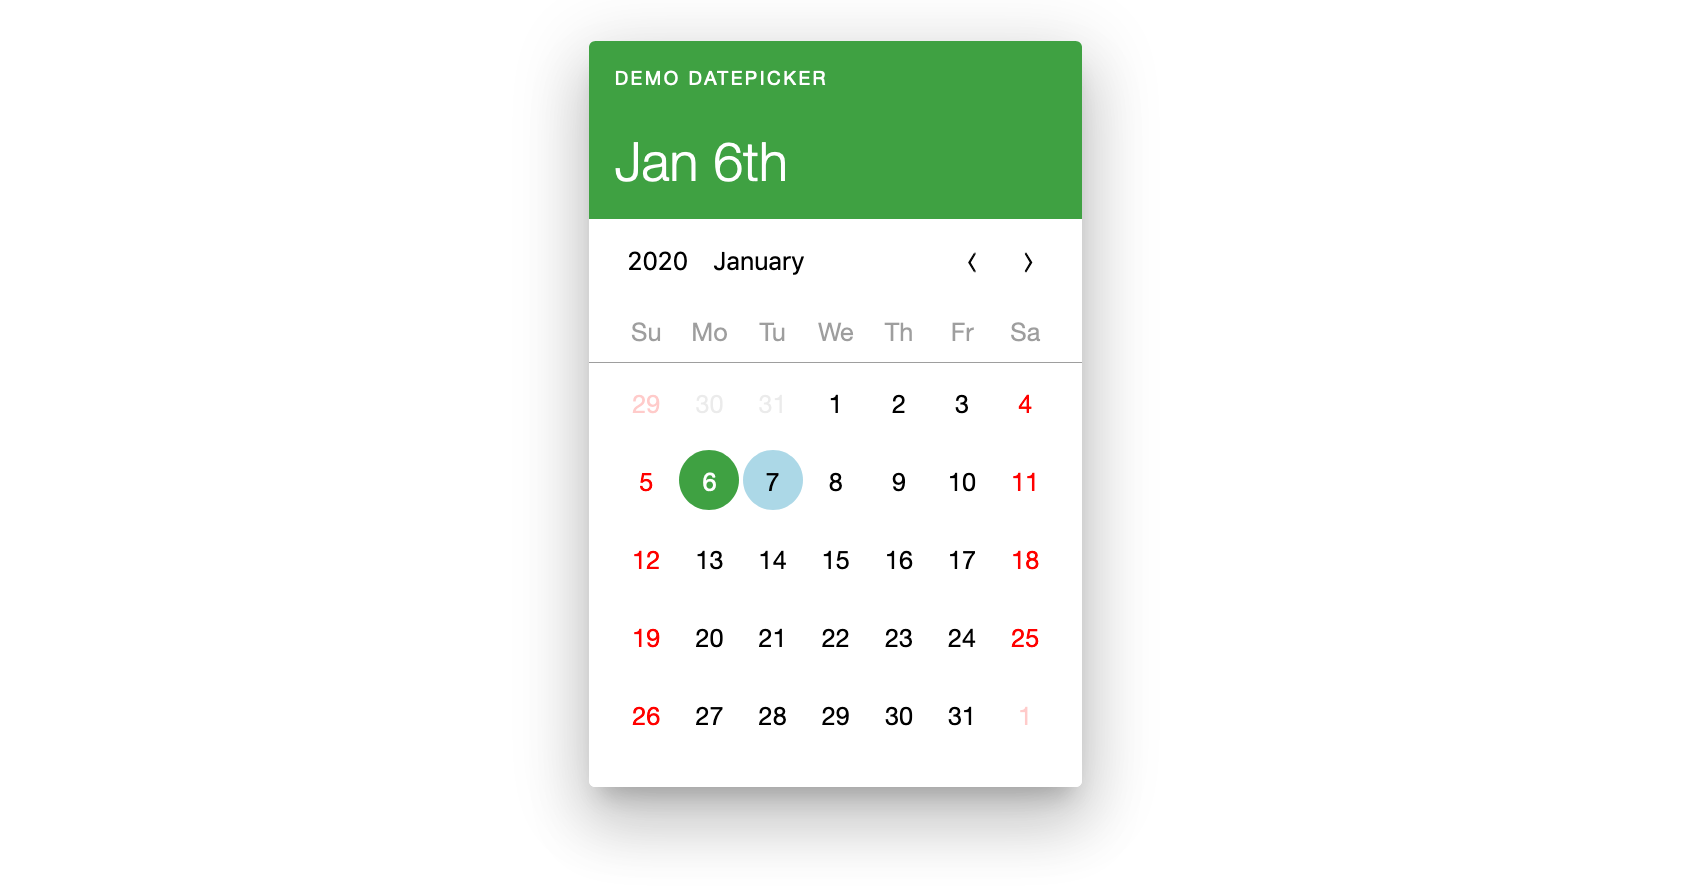
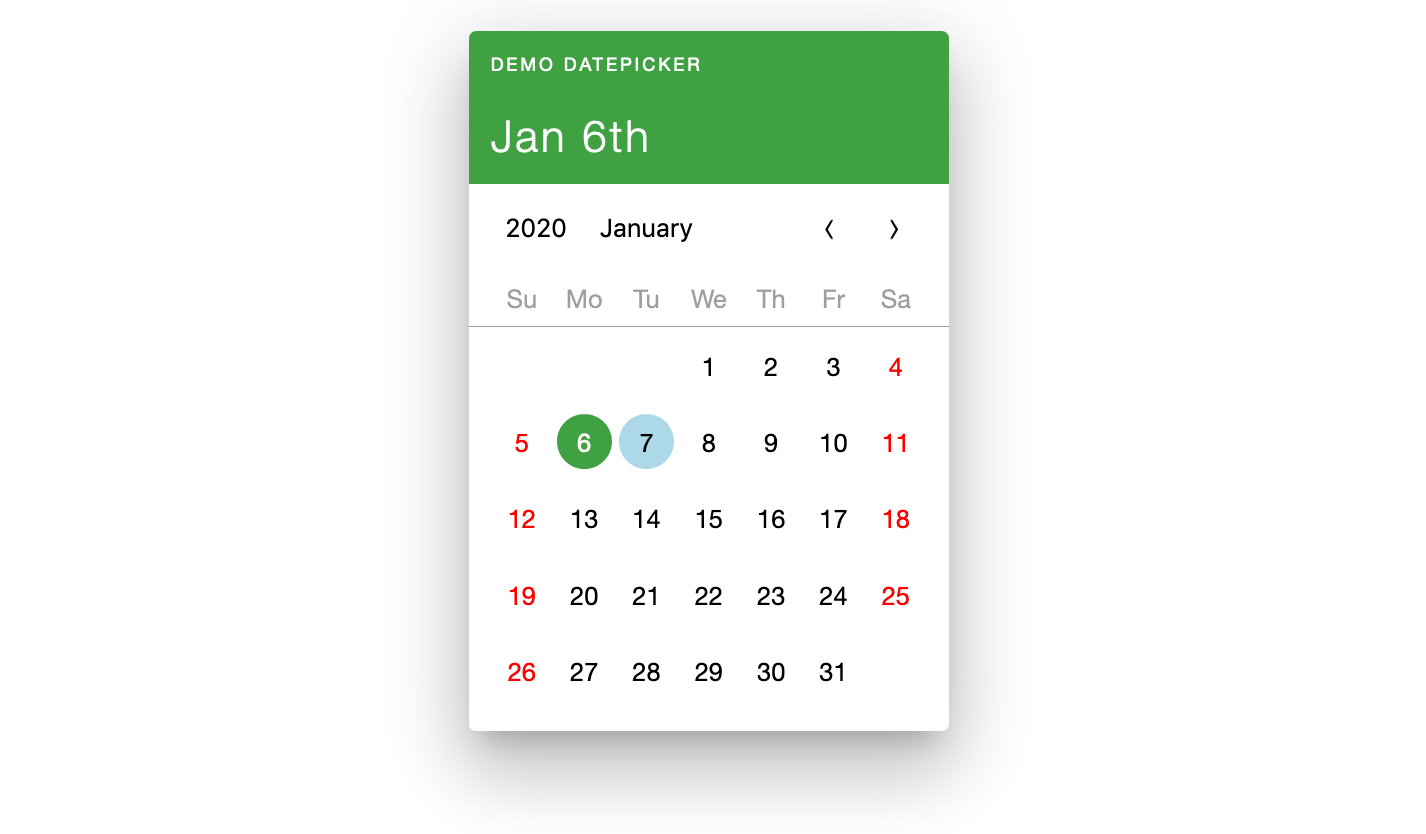
style fix

Changed region(s): [[0.3086, 0.0312, 0.6788, 0.9041]]

diff --git a/src/utils/defaultTheme.js b/src/utils/defaultTheme.js
@@ -10,7 +10,7 @@ export default {
   '--fontFallback': 'sans-serif',
   '--fontSize': '14px',
   /** Applied to the title */
-  '--fontSizeSmall': '12px',
+  '--fontSizeSmall': '10px',
   /** Applied to the header text */
   '--fontSizeBig': '24px',
   /** Set inner width */
@@ -21,7 +21,8 @@ export default {
   /** Set padding between elements */
   '--innerPadding': '12px',
   /** Day, month, year entries height */
-  '--entryHeight': '32px',
+  '--entryHeight': '30px',
+  '--entryMargin': '2px',
   '--datepickerBorderRadius': '4px',
   '--entryBorderRadius': '4px',
   /** Height of fieldset input */

diff --git a/src/components/visual/Year/Year.module.css b/src/components/visual/Year/Year.module.css
@@ -15,13 +15,13 @@
 .wrapper {
   text-align: center;
   box-sizing: border-box;
-  flex: 1 1 calc(100% / 5 - 2px);
+  flex: 1 1 calc(100% / 5 - 4px);
   height: var(--entryHeight);
   line-height: var(--entryHeight);
   border: 1px solid transparent;
   cursor: pointer;
   border-radius: var(--entryBorderRadius);
-  margin: var(--innerPadding) 1px 0;
+  margin: var(--innerPadding) var(--entryMargin) 0;
   color: var(--textColor);
   user-select: none;
 }

diff --git a/src/components/visual/Day/Day.module.css b/src/components/visual/Day/Day.module.css
@@ -11,10 +11,10 @@
 .wrapper {
   text-align: center;
   box-sizing: border-box;
-  flex: 1 1 calc(100% / 7 - 2px);
+  flex: 1 1 calc(100% / 7 - 4px);
   height: var(--entryHeight);
   line-height: var(--entryHeight);
-  margin: 0 1px;
+  margin: 0 var(--entryMargin);
   border: 1px solid transparent;
   cursor: pointer;
   border-radius: 50%;

diff --git a/src/components/visual/Month/Month.module.css b/src/components/visual/Month/Month.module.css
@@ -10,8 +10,8 @@
 .wrapper {
   text-align: center;
   box-sizing: border-box;
-  flex: 1 1 calc(100% / 3 - 2px);
-  margin: var(--innerPadding) 1px 0;
+  flex: 1 1 calc(100% / 3 - 4px);
+  margin: var(--innerPadding) var(--entryMargin) 0;
   height: var(--entryHeight);
   line-height: var(--entryHeight);
   border: 1px solid transparent;

diff --git a/src/App.js b/src/App.js
@@ -21,9 +21,9 @@ const App = () => (
           console.log('date set', date);
         }}
         title="Demo datepicker"
-        theme={{
-          '--headerBgColor': 'purple'
-        }}
+        // theme={{
+        //   '--headerBgColor': 'purple'
+        // }}
       />
     </div>
     <div className="container">

diff --git a/src/components/visual/Datepicker/variables.css b/src/components/visual/Datepicker/variables.css
@@ -10,6 +10,7 @@
   --calendarHeight: 247px;
   --innerPadding: 16px;
   --entryHeight: 38px;
+  --entryMargin: 2px;
   --datepickerBorderRadius: 4px;
   --entryBorderRadius: 4px;
   --inputHeight: 25px;

diff --git a/src/components/visual/Month/Month.js b/src/components/visual/Month/Month.js
@@ -34,7 +34,7 @@ const Month = ({
       })}
       aria-disabled={isDisabled}
       aria-label={name.wide}>
-      {name.wide}
+      {name.abbreviated}
     </div>
   );
 };
